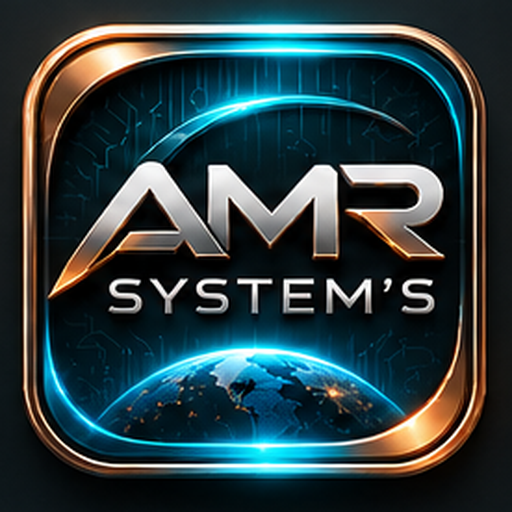
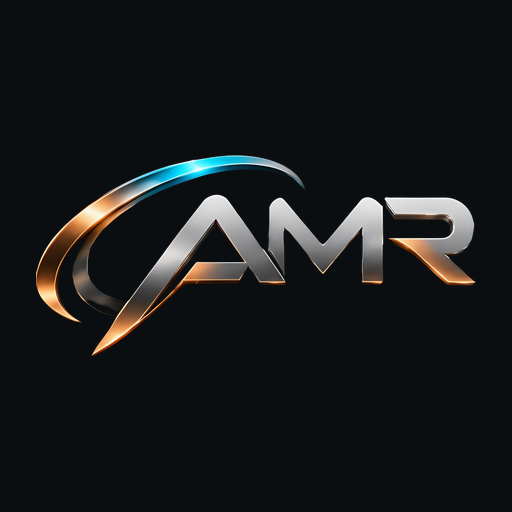
brand: approved AMR monogram from the 4096 px master
Header mark, PWA icons (192, 512, maskable with safe zone), apple-touch
icon and favicon are generated from the owner's master files. The vector
SVG and a 1024 px transparent PNG are kept in brand/ for the site.

Claude-Session: https://claude.ai/code/session_01DUC25L6TuRRD8wTQnEHGp3

diff --git a/src/routes/__root.tsx b/src/routes/__root.tsx
@@ -19,7 +19,7 @@ export const Route = createRootRoute({
       { name: "apple-mobile-web-app-title", content: "AMR SELF" },
     ],
     links: [
-      { rel: "icon", type: "image/png", href: "/icon-192.png" },
+      { rel: "icon", type: "image/png", href: "/favicon.png" },
       { rel: "apple-touch-icon", href: "/apple-touch-icon.png" },
       { rel: "stylesheet", href: appCss },
       { rel: "manifest", href: "/manifest.webmanifest" },

diff --git a/brand/README.md b/brand/README.md
@@ -1,0 +1,15 @@
+# AMR brand assets
+
+Approved AMR monogram. Use these files; do not redraw or recolor the mark.
+
+| File | Use |
+| --- | --- |
+| `amr-monogram.svg` | Vector master: site, print, any size |
+| `amr-monogram-1024.png` | Transparent PNG for places that need a bitmap |
+
+App copies generated from the 4096 px master live in `public/`:
+`amr-mono.png` (header), `icon-192.png`, `icon-512.png`, `icon-maskable-512.png`
+(mark inside the safe zone), `apple-touch-icon.png`, `favicon.png`.
+Background behind the mark in icons: `#0B0E11`.
+
+Palette: cyan `#00D4FF`, teal `#007C8A`, copper `#C77B3A`, silver `#D6D9DD`, black `#0B0F14`.
